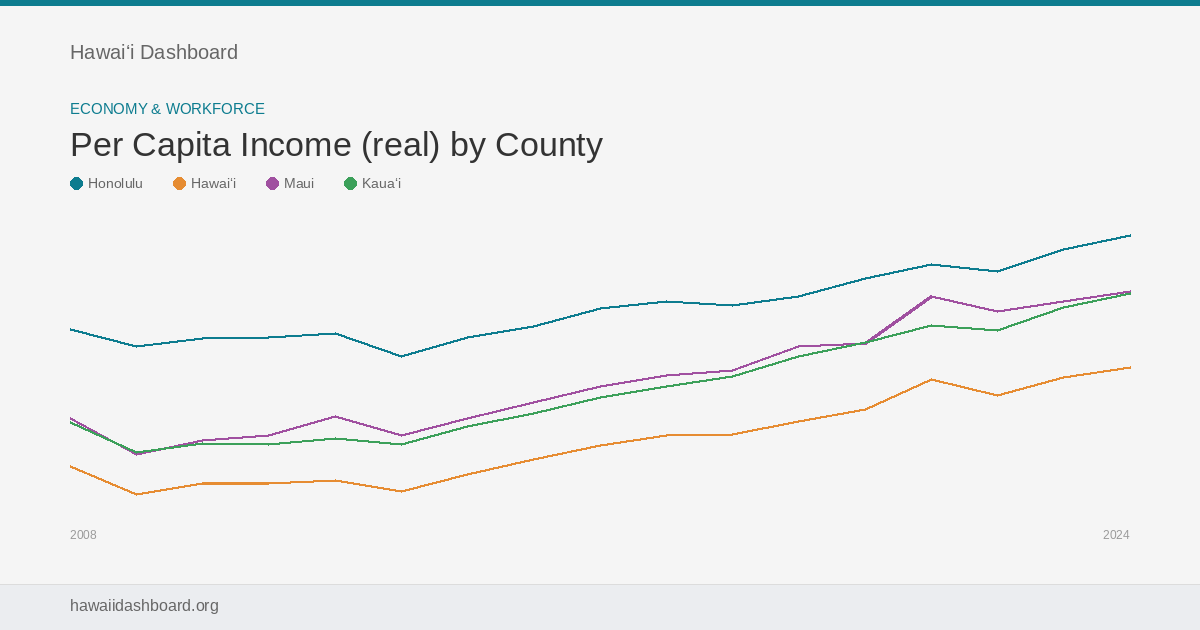
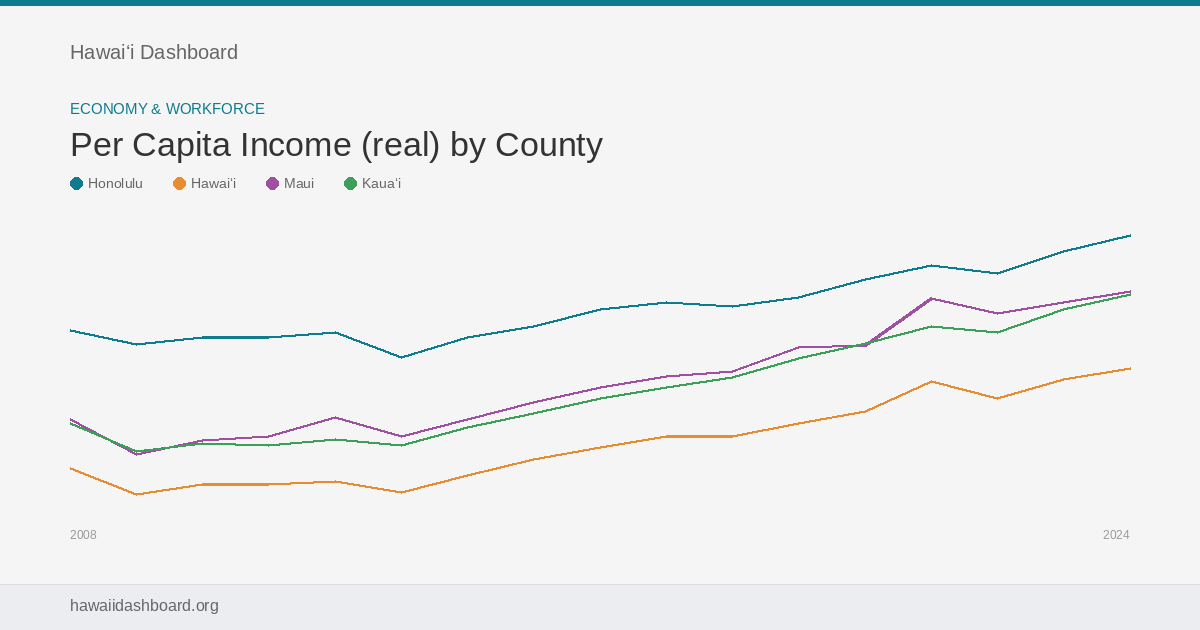
Data refresh: August 2026
Automated monthly data refresh from federal APIs.
Run validation: PASS with 1 warnings

diff --git a/js/data.js b/js/data.js
@@ -1111,11 +1111,7 @@ const DASHBOARD_DATA = {
     },
     "policyLevers": "<ul class='cn-focus-list'><li><strong>Tourism employment floor</strong> · Hawaiʻi's visitor economy provides a persistent baseline of service-sector jobs, but tourism-related sectors had recovered to only 94% of pre-pandemic GDP by late 2024 <a href=\"https://dbedt.hawaii.gov/economic/qser/outlook-economy/\" target=\"_blank\" rel=\"noopener\" class=\"cn-cite\">↗</a>; roughly 50% of hospitality tasks are technically automatable, posing a medium-term displacement risk. <a href=\"https://www.mckinsey.com/industries/travel/our-insights/future-of-tourism-bridging-the-labor-gap-enhancing-customer-experience\" target=\"_blank\" rel=\"noopener\" class=\"cn-cite\">↗</a></li><li><strong>Sector-based training</strong> · Randomized trials of programs such as Project QUEST and Year Up show sustained earnings gains of $5,000-$8,000 per year lasting a decade or more <a href=\"https://www.brookings.edu/articles/do-sectoral-training-programs-work-what-the-evidence-on-project-quest-and-year-up-really-shows/\" target=\"_blank\" rel=\"noopener\" class=\"cn-cite\">↗</a>; Hawaiʻi's federally funded training pipeline aligns with this model but remains small relative to at-risk occupations. <a href=\"https://labor.hawaii.gov/wp-content/uploads/2025/12/WIOA-Annual-Report-PY24_12.01.2025.pdf\" target=\"_blank\" rel=\"noopener\" class=\"cn-cite\">↗</a></li><li><strong>Reemployment speed</strong> · Rapid-reattachment services such as reemployment bonuses and job-search assistance shorten unemployment spells more cost-effectively than extended benefits <a href=\"https://www.brookings.edu/articles/building-americas-job-skills-with-effective-workforce-programs-a-training-strategy-to-raise-wages-and-increase-work-opportunities/\" target=\"_blank\" rel=\"noopener\" class=\"cn-cite\">↗</a>; Hawaiʻi's single-sector concentration amplifies the value of cross-industry reskilling during tourism downturns. <a href=\"https://uhero.hawaii.edu/potential-opportunities-to-diversify-the-economy-of-hawai%CA%BBi/\" target=\"_blank\" rel=\"noopener\" class=\"cn-cite\">↗</a></li></ul>",
     "nextUpdate": "Mar",
-    "latestMonthly": {
-      "value": 2.6,
-      "period": "Jun 2026",
-      "asOf": "2026-08-08"
-    },
+    "latestMonthly": {"value":2.7,"period":"Jul 2026","asOf":"2026-08-23"},
     "rankHistoryNarrative": {
       "summary": "Hawaiʻi has ranked in the top 10 in roughly two thirds of the past 40 years, with a weak stretch in the late 1990s when the rank reached #46. The sharpest break was 2020, when tourism dependence drove unemployment to 11.7 percent and the rank to #49. Recovery was gradual: #26 in 2022, back inside the top 10 by 2024, and #2 in both 2025 and 2026. That matches the best showing since 2018, though short of the #1 ranks of 2017 and the mid-2000s.",
       "mode": "protect",
@@ -1270,11 +1266,7 @@ const DASHBOARD_DATA = {
     },
     "policyLevers": "<ul class='cn-focus-list'><li><strong>Childcare cost and supply</strong> · Infant care in Hawaiʻi averages $21,167 per year, ranking 6th-highest nationally and consuming roughly 20% of median family income <a href=\"https://www.epi.org/child-care-costs-in-the-united-states/\" target=\"_blank\" rel=\"noopener\" class=\"cn-cite\">↗</a>; federal research finds higher childcare subsidy spending significantly increases low-income mothers' labor force participation. <a href=\"https://aspe.hhs.gov/effects-child-care-subsidies-maternal-labor-force-participation-united-states\" target=\"_blank\" rel=\"noopener\" class=\"cn-cite\">↗</a></li><li><strong>Aging-driven exits</strong> · Population aging reduced U.S. labor force participation by over 3 percentage points from 2000 to 2017 <a href=\"https://www.minneapolisfed.org/article/2023/whos-not-working-understanding-the-uss-aging-workforce\" target=\"_blank\" rel=\"noopener\" class=\"cn-cite\">↗</a>; Hawaiʻi's median age is among the highest in the nation, and roughly 1.6 million excess retirements nationally during the pandemic have not fully reversed. <a href=\"https://www.atlantafed.org/research-and-data/publications/policy-hub-macroblog/2023/04/21/retirement-and-its-impact-on-labor-supply\" target=\"_blank\" rel=\"noopener\" class=\"cn-cite\">↗</a></li><li><strong>Discouraged and disabled workers</strong> · Childcare-related nonparticipation rose 43% from mid-2023 to late 2024 <a href=\"https://www.kansascityfed.org/research/economic-bulletin/cost-of-childcare-increasingly-weighs-on-labor-force-engagement/\" target=\"_blank\" rel=\"noopener\" class=\"cn-cite\">↗</a>; high living costs in Hawaiʻi amplify barriers for workers deciding whether working is worth the cost, particularly those with disabilities or limited transportation. <a href=\"https://dbedt.hawaii.gov/economic/qser/labor-force/\" target=\"_blank\" rel=\"noopener\" class=\"cn-cite\">↗</a></li></ul>",
     "nextUpdate": "Mar",
-    "latestMonthly": {
-      "value": 60.9,
-      "period": "Jun 2026",
-      "asOf": "2026-08-08"
-    },
+    "latestMonthly": {"value":61,"period":"Jul 2026","asOf":"2026-08-23"},
     "rankHistoryNarrative": {
       "summary": "Hawaiʻi ranked #2 in 1976 and has fallen to #37 in 2025. The decline tracks the shift from plantation agriculture to tourism and hospitality, with part-time schedules and lower wages replacing full-time cross-skill employment.",
       "mode": "learn",
@@ -2127,11 +2119,7 @@ const DASHBOARD_DATA = {
     },
     "policyLevers": "<ul class='cn-focus-list'><li><strong>Fuel mix and renewable transition</strong> · KIUC on Kauaʻi posts the lowest residential rates statewide through fixed-price solar-plus-battery contracts <a href=\"https://kiuc.coop/renewable-portfolio\" target=\"_blank\" rel=\"noopener\" class=\"cn-cite\">↗</a>; scaling similar procurement to Oʻahu and Maui could displace the petroleum generation that keeps evening rates highest <a href=\"https://puc.hawaii.gov/wp-content/uploads/2025/01/Hawaii-PUC-Energy-Inclinations-White-Paper-FINAL.12.31.24_signed.pdf\" target=\"_blank\" rel=\"noopener\" class=\"cn-cite\">↗</a>.</li><li><strong>Grid modernization costs</strong> · The PUC capped HECOʻs Waiau repowering cost recovery and required 51% renewable fuel by 2032 <a href=\"https://energy.hawaii.gov/energy-affordability-signalled-as-state-priority-public-utilities-commission-heeds-calls-for-rate-accountability-in-waiau-repowering/\" target=\"_blank\" rel=\"noopener\" class=\"cn-cite\">↗</a>; phased cost recovery and competitive procurement can limit ratepayer exposure during the transition <a href=\"https://energy.hawaii.gov/wp-content/uploads/2026/01/2025-HSEO-Annual-Report.pdf\" target=\"_blank\" rel=\"noopener\" class=\"cn-cite\">↗</a>.</li><li><strong>Rate design and affordability</strong> · HECO's new time-of-use billing shifts price signals across daytime, evening peak, and overnight periods <a href=\"https://puc.hawaii.gov/energy/der/ard/\" target=\"_blank\" rel=\"noopener\" class=\"cn-cite\">↗</a>; pending rate cases and wildfire mitigation spending of $450 million through 2027 could push bills higher before renewables bring long-term savings <a href=\"https://www.hawaiianelectric.com/billing-and-payment/rates-and-regulations/effective-rate-summary\" target=\"_blank\" rel=\"noopener\" class=\"cn-cite\">↗</a>.</li></ul>",
     "nextUpdate": "Mar",
-    "latestMonthly": {
-      "value": 52,
-      "period": "May 2026",
-      "asOf": "2026-08-08"
-    },
+    "latestMonthly": {"value":52,"period":"May 2026","asOf":"2026-08-23"},
     "rankHistoryNarrative": {
       "summary": "Hawaiʻi has ranked #50 in every year since the mid-1990s except 1998. The 1973 oil embargo opened a permanent gap: mainland grids shifted to gas and coal while Hawaiʻi stayed on oil. Renewables, on the state's rooftop-inclusive RPS measure, have grown to over a third of electricity sales by 2025, but transition capital costs pass through to ratepayers and the price gap has widened, not closed.",
       "mode": "learn",
@@ -2229,11 +2217,7 @@ const DASHBOARD_DATA = {
     },
     "policyLevers": "<ul class='cn-focus-list'><li><strong>Utility-scale procurement</strong> · Renewable share reached 36% statewide in 2025, and an executive order accelerated the 100% target to 2035 for neighbor islands <a href=\"https://energy.hawaii.gov/wp-content/uploads/2026/01/2025-HSEO-Annual-Report.pdf\" target=\"_blank\" rel=\"noopener\" class=\"cn-cite\">↗</a>; Scaling Oʻahu procurement to match neighbor-island renewable progress is the binding constraint for statewide gains <a href=\"https://energy.hawaii.gov/hawaii-clean-energy-initiative/\" target=\"_blank\" rel=\"noopener\" class=\"cn-cite\">↗</a>.</li><li><strong>Storage and grid integration</strong> · KIUC reached 51% renewable by 2024 through co-located solar-plus-battery contracts <a href=\"https://kiuc.coop/renewable-portfolio\" target=\"_blank\" rel=\"noopener\" class=\"cn-cite\">↗</a>, proving isolated island grids can integrate high shares <a href=\"https://puc.hawaii.gov/wp-content/uploads/2025/01/Hawaii-PUC-Energy-Inclinations-White-Paper-FINAL.12.31.24_signed.pdf\" target=\"_blank\" rel=\"noopener\" class=\"cn-cite\">↗</a>.</li><li><strong>Permitting and interconnection</strong> · A 2025 strategic partnership with JERA aims to accelerate grid modernization <a href=\"https://energy.hawaii.gov/wp-content/uploads/2026/01/2025-HSEO-Annual-Report.pdf\" target=\"_blank\" rel=\"noopener\" class=\"cn-cite\">↗</a>; streamlining interconnection review from the current multi-year timeline is the highest-leverage change <a href=\"https://cnee.colostate.edu/wp-content/uploads/2025/11/Updated_HI-State-Brief_2025.pdf\" target=\"_blank\" rel=\"noopener\" class=\"cn-cite\">↗</a>.</li></ul>",
     "nextUpdate": "Mar",
-    "latestMonthly": {
-      "value": 24.5,
-      "period": "May 2026",
-      "asOf": "2026-08-08"
-    },
+    "latestMonthly": {"value":24.5,"period":"May 2026","asOf":"2026-08-23"},
     "rankHistoryNarrative": {
       "summary": "Hawaiʻi has generated a larger share of its electricity from renewables than the typical state throughout the two decades on record. Rank #22 reflects a handful of hydro- and wind-heavy states (Washington, Iowa, Oregon, South Dakota) that pull well ahead in absolute share. Hawaiʻi has kept improving but has not closed the gap with those leaders.",
       "mode": "learn",

diff --git a/about/index.html b/about/index.html
@@ -224,10 +224,10 @@
                         <tr><td class="metric-name">Electricity from Renewables</td><td class="area-cell">Infrastructure &amp; Trust</td><td>%</td><td>2001-2025</td><td class="cadence-cell">Mar 2027</td><td class="county-cell">No</td><td class="direction-cell">Higher</td></tr>
                         <tr><td><a href="https://www.bea.gov/data/income-saving/personal-income-by-state" target="_blank" rel="noopener">BEA</a></td><td class="metric-name">Per Capita Income (real)</td><td class="area-cell">Economy &amp; Workforce</td><td>$</td><td>2008-2024</td><td class="cadence-cell">Nov 2026</td><td class="county-cell">Yes</td><td class="direction-cell">Higher</td></tr>
                         <tr><td><a href="https://www.cdc.gov/nchs/state-stats/deaths/suicide.html" target="_blank" rel="noopener">CDC NVSS</a></td><td class="metric-name">Suicide Rate</td><td class="area-cell">Safety &amp; Health</td><td>per 100K</td><td>1999-2024</td><td class="cadence-cell">Mar 2027</td><td class="county-cell">No</td><td class="direction-cell">Lower</td></tr>
-                        <tr><td><a href="https://www.census.gov/data/datasets/time-series/demo/popest/2020s-state-total.html" target="_blank" rel="noopener">Census PEP</a></td><td class="metric-name">Net Migration</td><td class="area-cell">Infrastructure &amp; Trust</td><td>per 10K</td><td>2001-2024</td><td class="cadence-cell">Dec 2026</td><td class="county-cell">Yes</td><td class="direction-cell">Higher</td></tr>
+                        <tr><td><a href="https://www.census.gov/data/datasets/time-series/demo/popest/2020s-state-total.html" target="_blank" rel="noopener">Census PEP</a></td><td class="metric-name">Net Migration</td><td class="area-cell">Infrastructure &amp; Trust</td><td>per 10K</td><td>2001-2025</td><td class="cadence-cell">Dec 2026</td><td class="county-cell">Yes</td><td class="direction-cell">Higher</td></tr>
                         <tr><td><a href="https://www.fhwa.dot.gov/policyinformation/statistics.cfm" target="_blank" rel="noopener">FHWA</a></td><td class="metric-name">Roads in Poor Condition</td><td class="area-cell">Infrastructure &amp; Trust</td><td>%</td><td>2000-2024</td><td class="cadence-cell">Nov 2026</td><td class="county-cell">No</td><td class="direction-cell">Lower</td></tr>
                         <tr><td><a href="https://data.hrsa.gov/topics/health-workforce/nchwa/ahrf" target="_blank" rel="noopener">HRSA</a></td><td class="metric-name">Primary Care Physicians (civilian)</td><td class="area-cell">Safety &amp; Health</td><td>per 100K</td><td>2010-2023</td><td class="cadence-cell">Jun 2026</td><td class="county-cell">No</td><td class="direction-cell">Higher</td></tr>
-                        <tr><td><a href="https://www.huduser.gov/portal/datasets/ahar.html" target="_blank" rel="noopener">HUD</a></td><td class="metric-name">Homelessness</td><td class="area-cell">Affordability</td><td>per 10K</td><td>2007-2024</td><td class="cadence-cell">Nov 2026</td><td class="county-cell">No</td><td class="direction-cell">Lower</td></tr>
+                        <tr><td><a href="https://www.huduser.gov/portal/datasets/ahar.html" target="_blank" rel="noopener">HUD</a></td><td class="metric-name">Homelessness</td><td class="area-cell">Affordability</td><td>per 10K</td><td>2007-2025</td><td class="cadence-cell">Nov 2026</td><td class="county-cell">No</td><td class="direction-cell">Lower</td></tr>
                         <tr><td rowspan="2"><a href="https://www.nationsreportcard.gov/" target="_blank" rel="noopener">NAEP</a></td><td class="metric-name">NAEP 8th Grade Math</td><td class="area-cell">Education</td><td>score</td><td>1990-2024</td><td class="cadence-cell">May 2027</td><td class="county-cell">No</td><td class="direction-cell">Higher</td></tr>
                         <tr><td class="metric-name">NAEP 8th Grade Reading</td><td class="area-cell">Education</td><td>score</td><td>1998-2024</td><td class="cadence-cell">May 2027</td><td class="county-cell">No</td><td class="direction-cell">Higher</td></tr>
                         <tr><td><a href="https://www.nasbo.org/reports-data/fiscal-survey-of-states" target="_blank" rel="noopener">NASBO</a></td><td class="metric-name">Rainy Day Fund</td><td class="area-cell">Infrastructure &amp; Trust</td><td>%</td><td>2000-2025</td><td class="cadence-cell">Jan 2027</td><td class="county-cell">No</td><td class="direction-cell">Higher</td></tr>

diff --git a/js/county-data.js b/js/county-data.js
@@ -75,10 +75,10 @@ const COUNTY_DATA = {
   "real_per_capita_income": {
     "counties": ["Honolulu","Hawaiʻi","Maui","Kauaʻi"],
     "data": {
-      "Honolulu": {"2008":45973,"2009":44399,"2010":45145,"2011":45225,"2012":45671,"2013":43399,"2014":45278,"2015":46256,"2016":47967,"2017":48632,"2018":48312,"2019":49137,"2020":50880,"2021":52234,"2022":51527,"2023":53585,"2024":54924},
-      "Hawaiʻi": {"2008":32980,"2009":30347,"2010":31353,"2011":31390,"2012":31651,"2013":30605,"2014":32180,"2015":33689,"2016":34940,"2017":35957,"2018":36031,"2019":37251,"2020":38390,"2021":41248,"2022":39716,"2023":41491,"2024":42431},
-      "Maui": {"2008":37579,"2009":34081,"2010":35495,"2011":35905,"2012":37729,"2013":35953,"2014":37520,"2015":39078,"2016":40633,"2017":41680,"2018":42117,"2019":44420,"2020":44644,"2021":49135,"2022":47683,"2023":48707,"2024":49634},
-      "Kauaʻi": {"2008":37203,"2009":34337,"2010":35157,"2011":35066,"2012":35646,"2013":35071,"2014":36792,"2015":38045,"2016":39529,"2017":40566,"2018":41579,"2019":43416,"2020":44750,"2021":46405,"2022":45887,"2023":48078,"2024":49400}
+      "Honolulu": {"2008":45947,"2009":44659,"2010":45319,"2011":45335,"2012":45749,"2013":43444,"2014":45369,"2015":46372,"2016":47962,"2017":48632,"2018":48261,"2019":49073,"2020":50840,"2021":52139,"2022":51377,"2023":53463,"2024":54924},
+      "Hawaiʻi": {"2008":32961,"2009":30525,"2010":31474,"2011":31467,"2012":31705,"2013":30637,"2014":32245,"2015":33773,"2016":34936,"2017":35957,"2018":35992,"2019":37203,"2020":38360,"2021":41173,"2022":39601,"2023":41397,"2024":42431},
+      "Maui": {"2008":37557,"2009":34281,"2010":35632,"2011":35993,"2012":37794,"2013":35990,"2014":37595,"2015":39175,"2016":40629,"2017":41680,"2018":42072,"2019":44362,"2020":44609,"2021":49046,"2022":47544,"2023":48596,"2024":49634},
+      "Kauaʻi": {"2008":37183,"2009":34538,"2010":35293,"2011":35152,"2012":35707,"2013":35107,"2014":36866,"2015":38140,"2016":39524,"2017":40566,"2018":41535,"2019":43360,"2020":44715,"2021":46321,"2022":45754,"2023":47968,"2024":49400}
     }
   },
   "net_domestic_migration_rate": {
